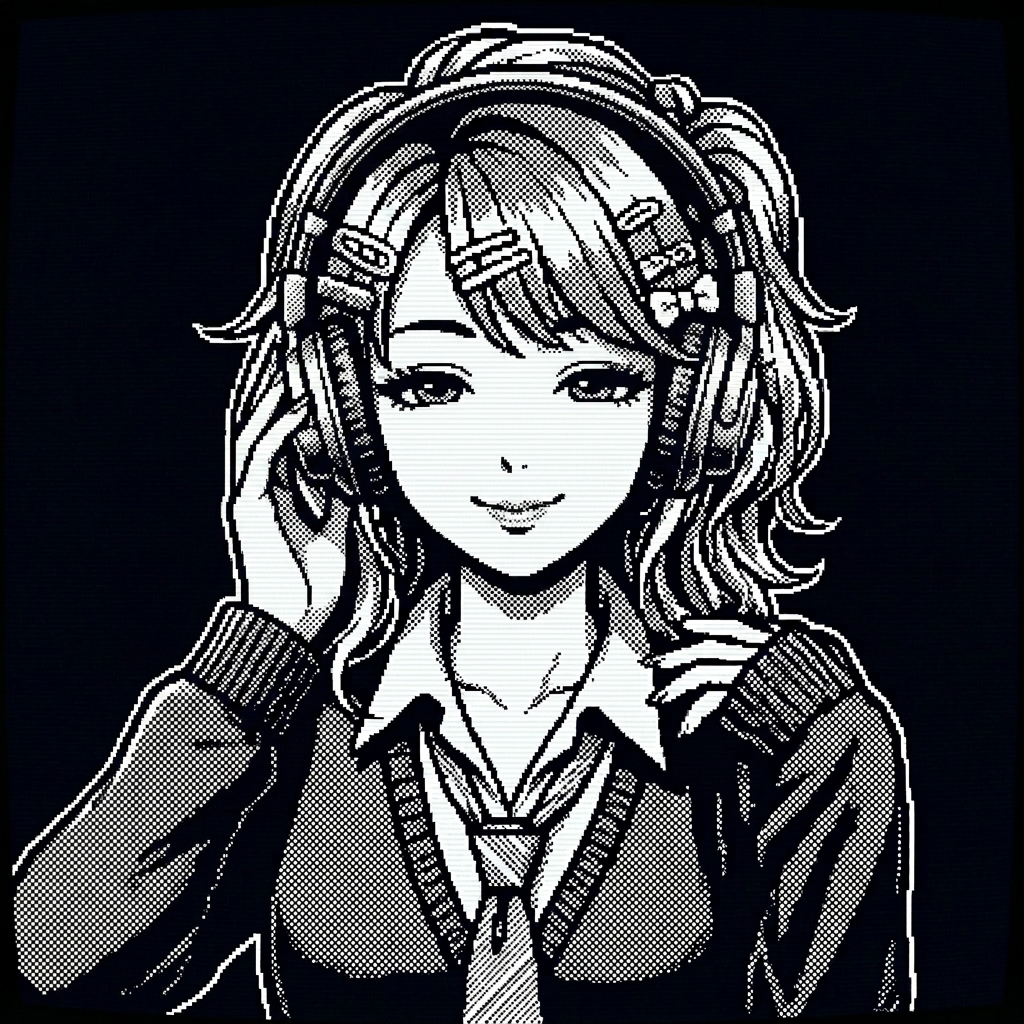
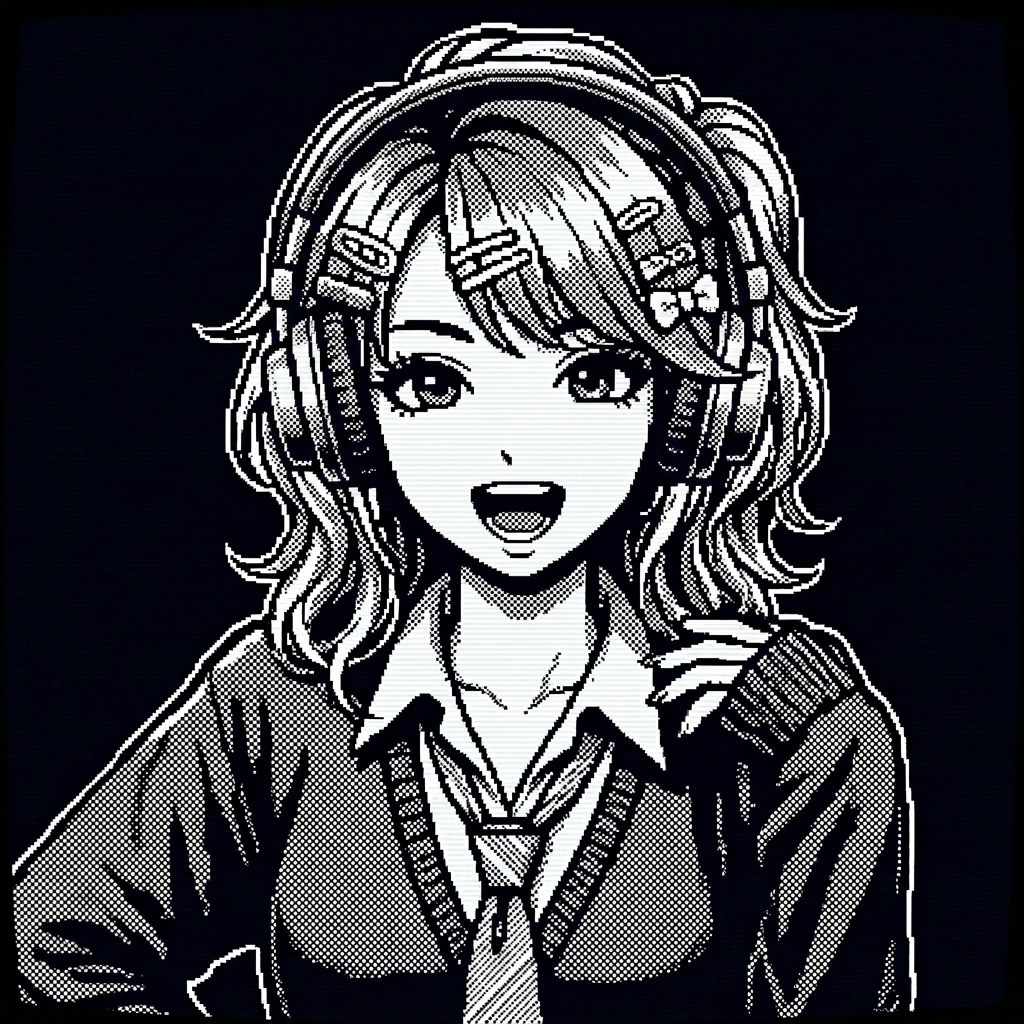
fix: Restore original talk headphones portrait (eyes open, hands at resting position) and bump SW cache to v6

Changed region(s): [[0.0, 0.0312, 0.7812, 1.0], [0.4375, 0.4375, 0.5625, 0.5625], [0.2188, 0.9062, 0.2812, 0.9375]]

diff --git a/sw.js b/sw.js
@@ -1,4 +1,4 @@
-const CACHE_NAME = 'luna-v5';
+const CACHE_NAME = 'luna-v6';
 const ASSETS = [
   './',
   './index.html',
